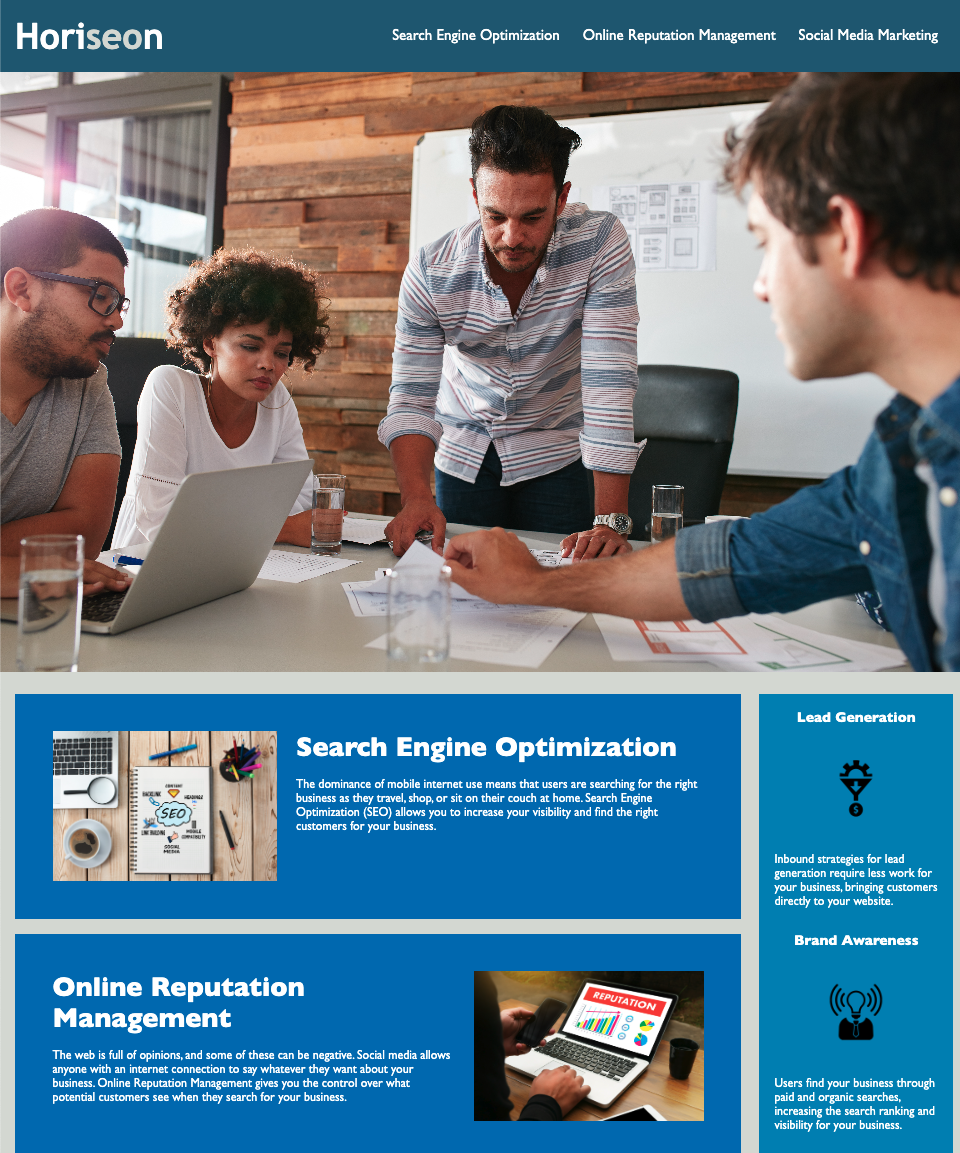
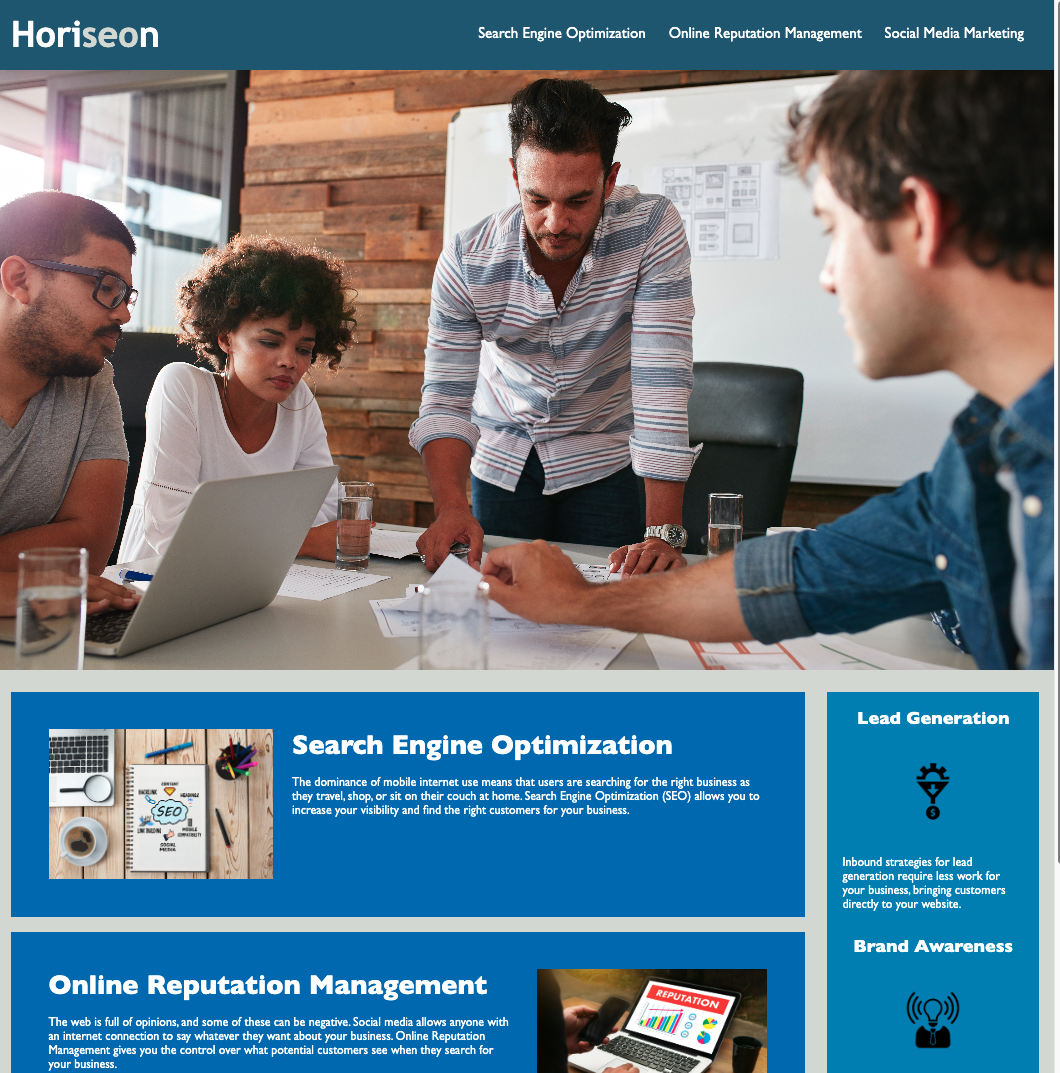
Added changes to font weight and size on several items

diff --git a/Assets/css/style.css b/Assets/css/style.css
@@ -110,9 +110,11 @@ p {
 .benefit-side-sections {
   margin-bottom: 32px;
   color: #ffffff;
+  font-weight: 200%;
 }
 
 .benefit-side-sections h3 {
+  font-size: 24px;
   margin-bottom: 10px;
   text-align: center;
 }
